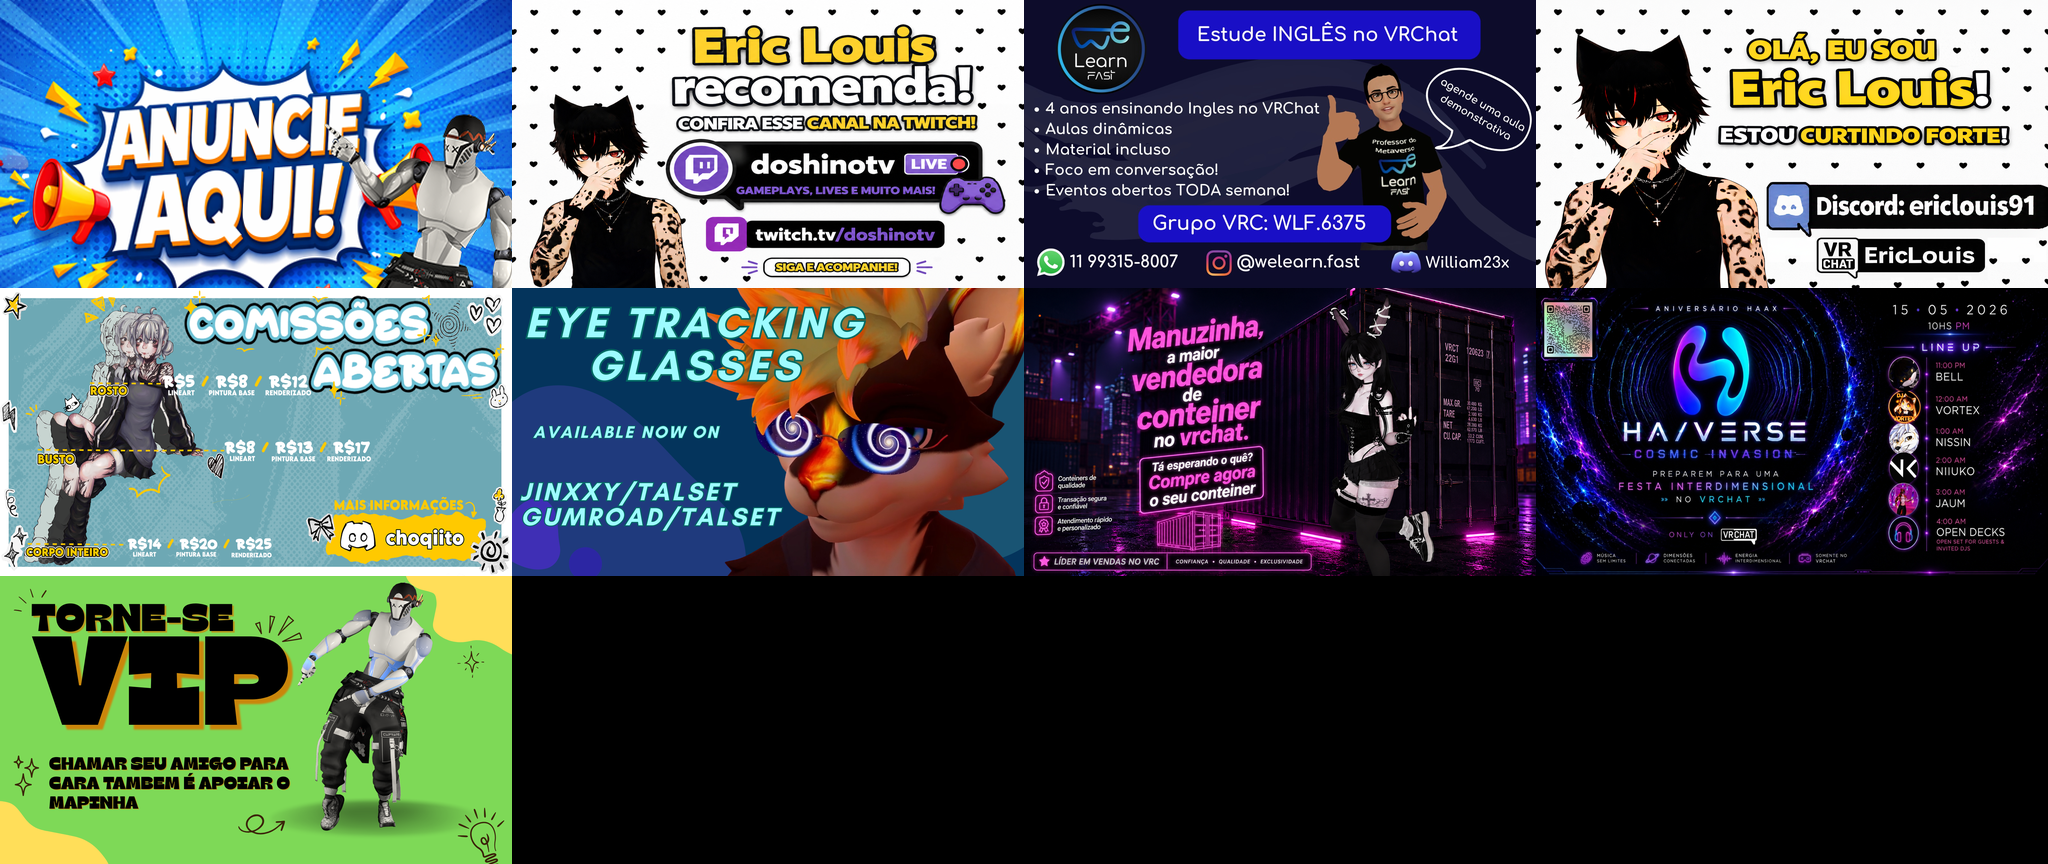
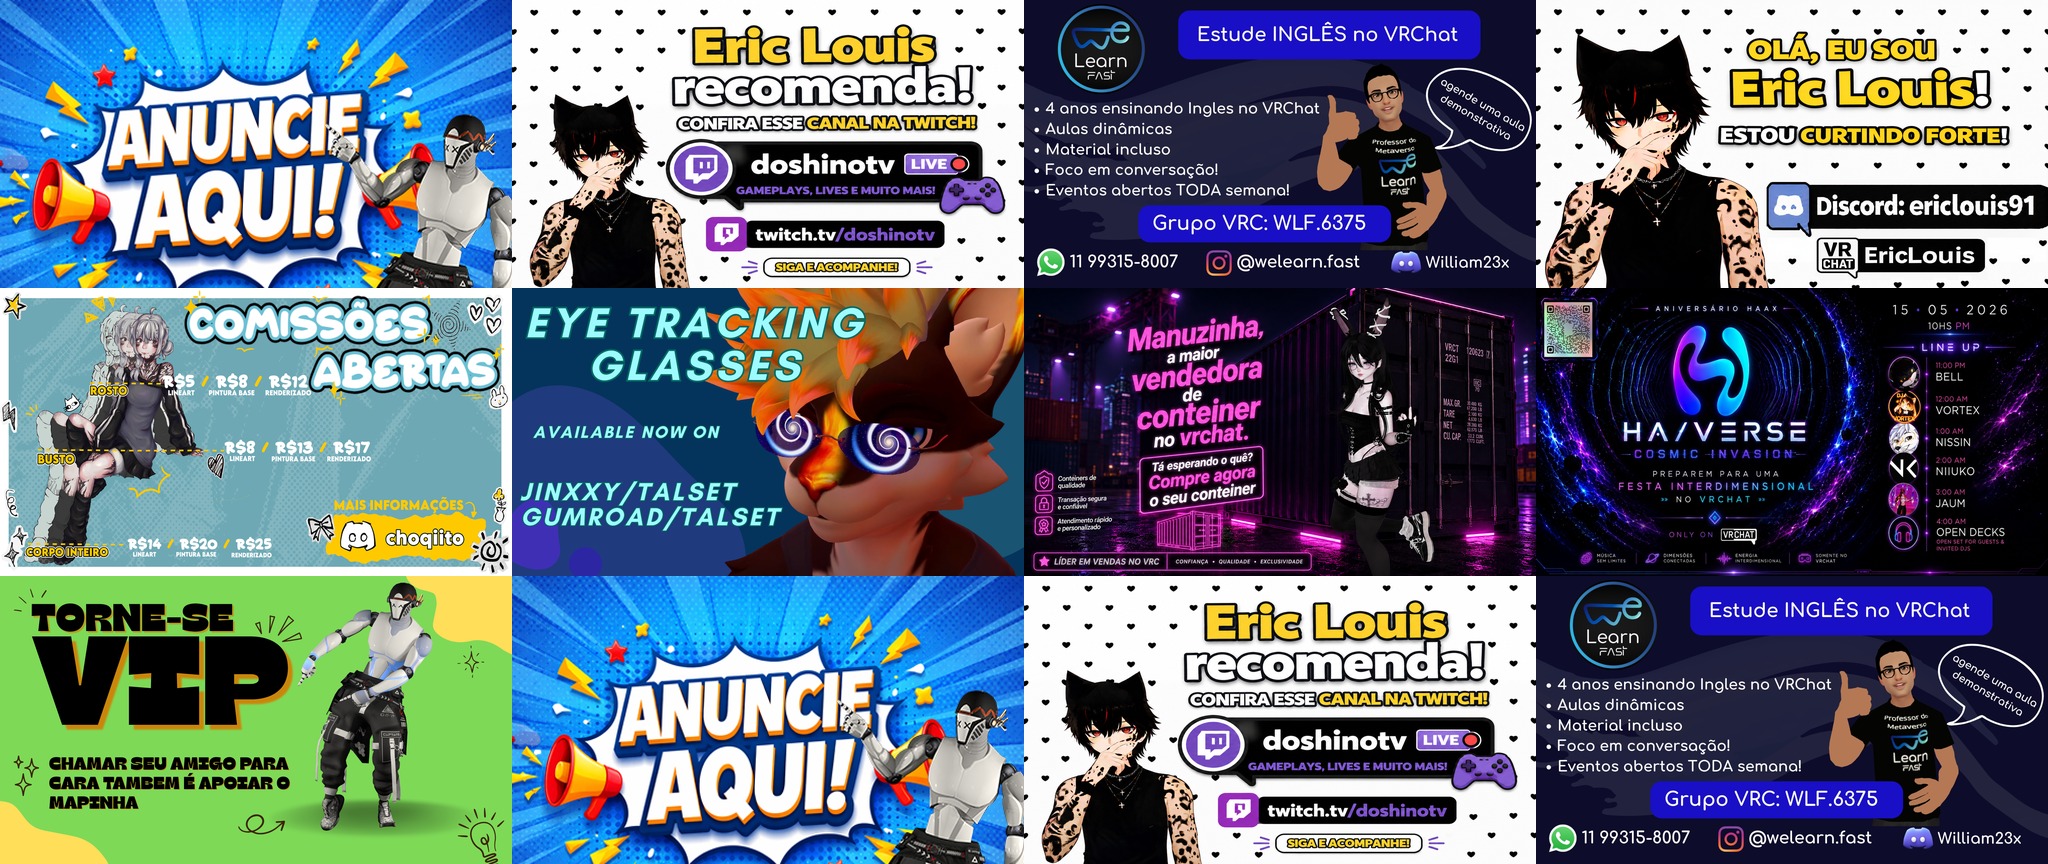
repo: atualiza README e regenera grid com padding round-robin
- README reescrito: instrucoes corretas, URL do grid, tabela de capacidade
- banner_grid.png: padding agora distribui banners em round-robin
  (antes repetia so o banner_01; agora banner_01/02/03 uma vez cada)

Changed region(s): [[0.25, 0.6562, 1.0, 1.0]]

diff --git a/README.md b/README.md
@@ -1,23 +1,60 @@
 # Brasilsão — Banners
 
-Repositório de imagens para os banners do mundo VRChat **Brasilsão**.
+Repositório de imagens dos banners rotativos do mundo VRChat **Brasilsão**.
 
-## Como adicionar uma imagem nova
+---
 
-1. Faça upload da imagem neste repositório (JPG ou PNG, 1920×1080)
-2. Abra o arquivo `banners.txt`
-3. Adicione a URL raw da imagem no final do arquivo:
-   ```
-   https://raw.githubusercontent.com/viniciusvieirafx/brasilsao-banners/main/nome-da-imagem.jpg
-   ```
-4. Salve — na próxima vez que o mundo recarregar, a imagem aparecerá.
+## Como funciona
 
-## Como remover uma imagem
+O mundo baixa **uma única imagem** (`banner_grid.png`) que contém todos os banners organizados em uma grade 4×N.  
+O shader `BannerSystem/BannerScroll` desliza entre os painéis automaticamente.
 
-Apague ou comente (com `#`) a linha correspondente no `banners.txt`.
+**Não edite os arquivos diretamente aqui.** Use o script de upload.
 
-## Dicas
+---
 
-- Resolução ideal: **1920×1080** (16:9)
-- Formatos aceitos: JPG, PNG
-- Linhas em branco e linhas começando com `#` são ignoradas pelo sistema
+## Adicionar / trocar banners
+
+1. Coloque as imagens novas na pasta `Upload/` (dentro de `Send Banners/`)
+2. Rode `Upar Imagens.bat` (duplo clique)
+3. Pronto — o mundo atualiza automaticamente na próxima vez que alguém entrar
+
+**Requisito:** `pip install Pillow` (só na primeira vez)
+
+---
+
+## Especificações das imagens
+
+| Parâmetro | Valor |
+|---|---|
+| Resolução recomendada | 1920×1080 (16:9) |
+| Resolução máxima | 2048×2048 |
+| Formatos aceitos | PNG, JPG, JPEG, WEBP |
+| Tamanho máximo | 5 MB por arquivo |
+
+---
+
+## URL da grade (Unity Inspector)
+
+```
+https://raw.githubusercontent.com/viniciusvieirafx/brasilsao-banners/main/banner_grid.png
+```
+
+Cole essa URL no campo **Grid Image Url** do componente `BannerManager` na cena.  
+Não muda — mesmo quando os banners são atualizados.
+
+---
+
+## Capacidade
+
+Grade fixa de **4 colunas × célula 512×288 px** dentro de 2048×2048:
+
+| Banners | Grade | Tamanho da imagem |
+|---|---|---|
+| 1–4 | 4×1 | 2048×288 |
+| 5–8 | 4×2 | 2048×576 |
+| 9–12 | 4×3 | 2048×864 |
+| 13–16 | 4×4 | 2048×1152 |
+| 17–20 | 4×5 | 2048×1440 |
+| 21–24 | 4×6 | 2048×1728 |
+| 25–28 | 4×7 | 2048×2016 |
